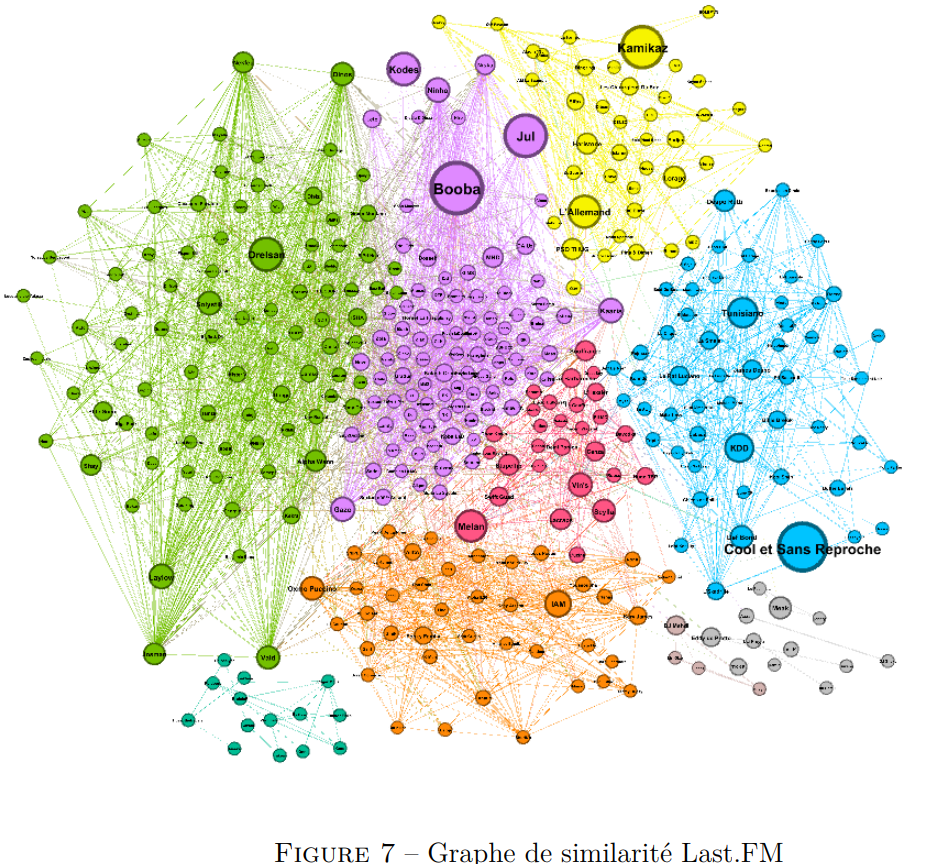
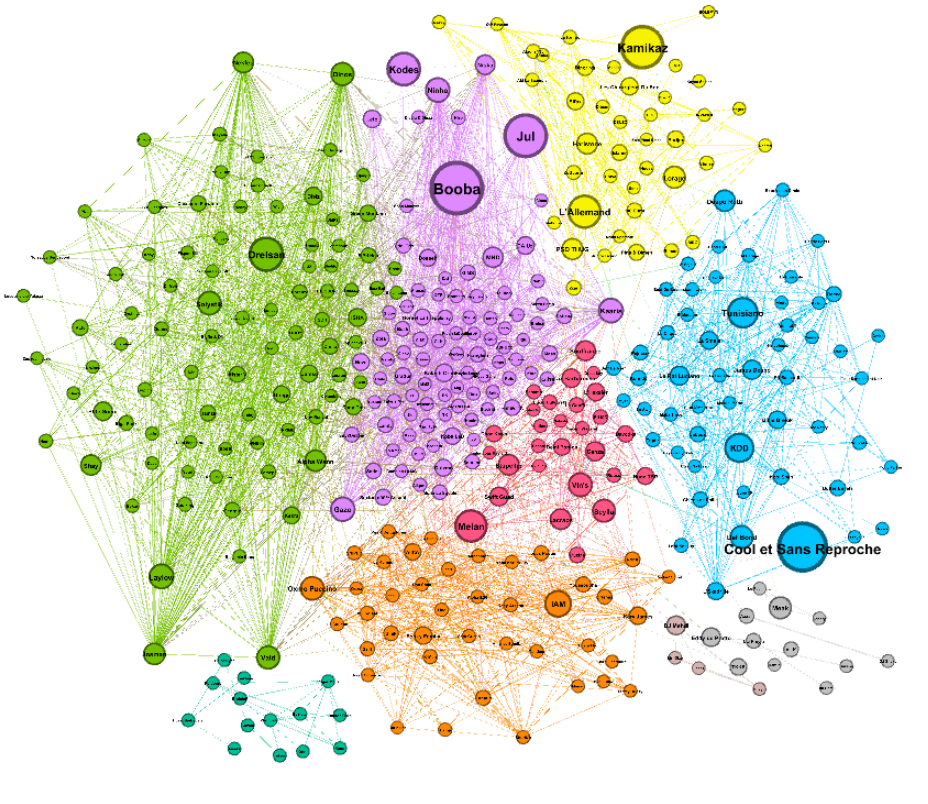
rename

diff --git a/README.md b/README.md
@@ -1,6 +1,6 @@
 # French Rap Collaboration Graphs
 
-School project for the **CSC_43M02_EP Modal – Exploration and Learning on Web Graphs** course at École polytechnique, by Arthur Fournier and Arthur Buis.
+School project for the **CSC_43M02_EP Modal - Exploration and Learning on Web Graphs** course at École polytechnique, by Arthur Fournier and Arthur Buis.
 
 <p align="center">
   <img src="img/globalgraph.png" width="90%" alt="Collaboration graph of French rap artists, coloured by community">
@@ -10,28 +10,26 @@ School project for the **CSC_43M02_EP Modal – Exploration and Learning on Web 
 
 <table>
   <tr>
-    <td width="33%"><img src="img/subgraph1.png" alt="Zoom on a community of the collaboration graph"></td>
-    <td width="33%"><img src="img/subgraph2.png" alt="Zoom on another community of the collaboration graph"></td>
-    <td width="33%"><img src="img/similaritelastfm.png" alt="Last.fm similarity graph"></td>
+    <td width="50%"><img src="img/subgraph1.png" alt="Zoom on a community of the collaboration graph"></td>
+    <td width="50"><img src="img/subgraph2.png" alt="Zoom on another community of the collaboration graph"></td>
   </tr>
   <tr>
-    <td align="center"><em>Zoom on a community (Booba, Sofiane, Leto…)</em></td>
-    <td align="center"><em>Zoom on a community (Nekfeu, Alpha Wann, Sheldon…)</em></td>
-    <td align="center"><em>Last.fm similarity graph</em></td>
+    <td align="center"><em>Zoom on a community</em></td>
+    <td align="center"><em>Zoom on another community</em></td>
   </tr>
 </table>
 
-We build and analyse three graphs of French rap artists from Spotify, Genius, MusicBrainz and Last.fm data:
+We build and analyse three graphs of French rap artists with data collected from Spotify, Genius, MusicBrainz and Last.fm:
 
 | Graph | Nodes | Edges |
 |---|---|---|
-| **Collaborations** | Artists | Songs made together (featurings), weighted by the number of songs |
+| **Collaborations** (Main graph) | Artists | Songs made together (featurings), weighted by the number of songs |
 | **Lyrics embeddings** | Artists | Cosine similarity ≥ 0.98 between the mean [Word2Bezbar](https://huggingface.co/rapminerz/Word2Bezbar-large) vectors of their lyrics |
 | **Last.fm similarity** | Artists | Artists listed as similar by Last.fm, weighted by the match score |
 
 The graphs are stored in MongoDB, analysed with NetworkX (statistics, centralities, community detection) and visualised with [Gephi](https://gephi.org/).
 
-📄 **Report** (in French): [`report/modal_report_fr.pdf`](report/modal_report_fr.pdf) — also available [online](https://plmlatex.math.cnrs.fr/read/hvtgtnmvykbn).
+**Report** (available in French): [`report/modal_report_fr.pdf`](report/modal_report_fr.pdf). [Online report](https://plmlatex.math.cnrs.fr/read/hvtgtnmvykbn).
 
 ## Repository structure
 
@@ -54,16 +52,16 @@ report/                 # Project report (French)
 
 ### Data
 
-- `data/db_artists_clean.csv` — the 477 artists kept (Spotify id, popularity, followers, Genius id and url, MusicBrainz id).
-- `data/db_featurings_clean.csv` — the ~8,900 songs involving at least two of these artists.
-- `data/clean_artists_2.json` — the artists with their lyrics embeddings (MongoDB export).
+- `data/db_artists_clean.csv` - the 477 artists kept (Spotify id, popularity, followers, Genius id and url, MusicBrainz id).
+- `data/db_featurings_clean.csv` - the ~8,900 songs involving at least two of these artists.
+- `data/clean_artists_2.json` - the artists with their lyrics embeddings (MongoDB export).
 
 ### Graphs
 
-- `collab_louvain.gexf`, `collab_clique_percolation.gexf` — collaboration graph clustered with Louvain / clique percolation.
-- `embedding_louvain.gexf` — lyrics similarity graph clustered with Louvain.
-- `lastfm_louvain.gexf` — Last.fm similarity graph clustered with Louvain.
-- `collab_size_*.gephi`, `embedding_and_lastfm.gephi` — Gephi projects (node size by betweenness, degree, popularity/followers).
+- `collab_louvain.gexf`, `collab_clique_percolation.gexf` - collaboration graph clustered with Louvain / clique percolation.
+- `embedding_louvain.gexf` - lyrics similarity graph clustered with Louvain.
+- `lastfm_louvain.gexf` - Last.fm similarity graph clustered with Louvain.
+- `collab_size_*.gephi`, `embedding_and_lastfm.gephi` - Gephi projects (node size by betweenness, degree, popularity/followers).
 
 ## Setup
 
@@ -114,7 +112,7 @@ uv run rap-graph fetch-featurings
 **3. Build, cluster and export a graph**
 
 ```bash
-uv run rap-graph build-graph collab                          # -> graphs/collab_louvain_new.gexf
+uv run rap-graph build-graph collab     # -> graphs/collab_louvain_new.gexf
 uv run rap-graph build-graph embedding --no-plot
 uv run rap-graph build-graph lastfm --method greedy_modularity
 ```
